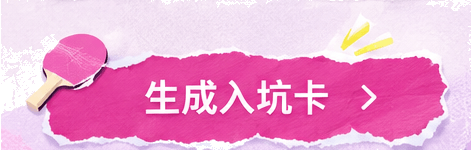
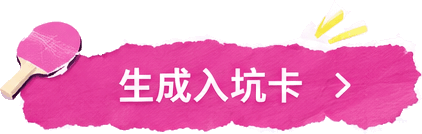
fix: 缩小透明的生成按钮，避免挡住选日期
去掉按钮周围的花纹底并缩小尺寸，滑到底时日期框留在按钮上方。

diff --git a/src/paper.css b/src/paper.css
@@ -35,7 +35,7 @@ html, body, #app {
   color: var(--ink);
   clip-path: var(--torn);
 }
-.page-home.app-shell { padding: 0 0 190px; }
+.page-home.app-shell { padding: 0 0 calc(78px + min(460px, 74vw) * 134 / 422 + 48px); }
 .page-result.app-shell { padding: 0 0 140px; }
 .page-home .home-content { padding-top: 0; margin-top: 0; }
 .page-home .topbar,
@@ -173,8 +173,6 @@ html, body, #app {
 
 .home-search input,
 .search-row input,
-.custom-entry-panel,
-.manual-entry-panel,
 .custom-entry-panel input,
 .manual-entry-panel input,
 .card-fields input,
@@ -502,7 +500,7 @@ html, body, #app {
   left: 50%;
   bottom: 78px;
   transform: translateX(-50%);
-  width: min(680px, calc(100% - 28px));
+  width: min(460px, 74%);
   margin: 0;
   pointer-events: none;
 }
@@ -521,7 +519,7 @@ html, body, #app {
   height: auto;
   min-height: 0;
   padding: 0;
-  aspect-ratio: 471 / 150;
+  aspect-ratio: 422 / 134;
   border-radius: 0;
   background: url('./artwork/paper/list-generate.png') center / 100% 100% no-repeat;
   color: transparent;
